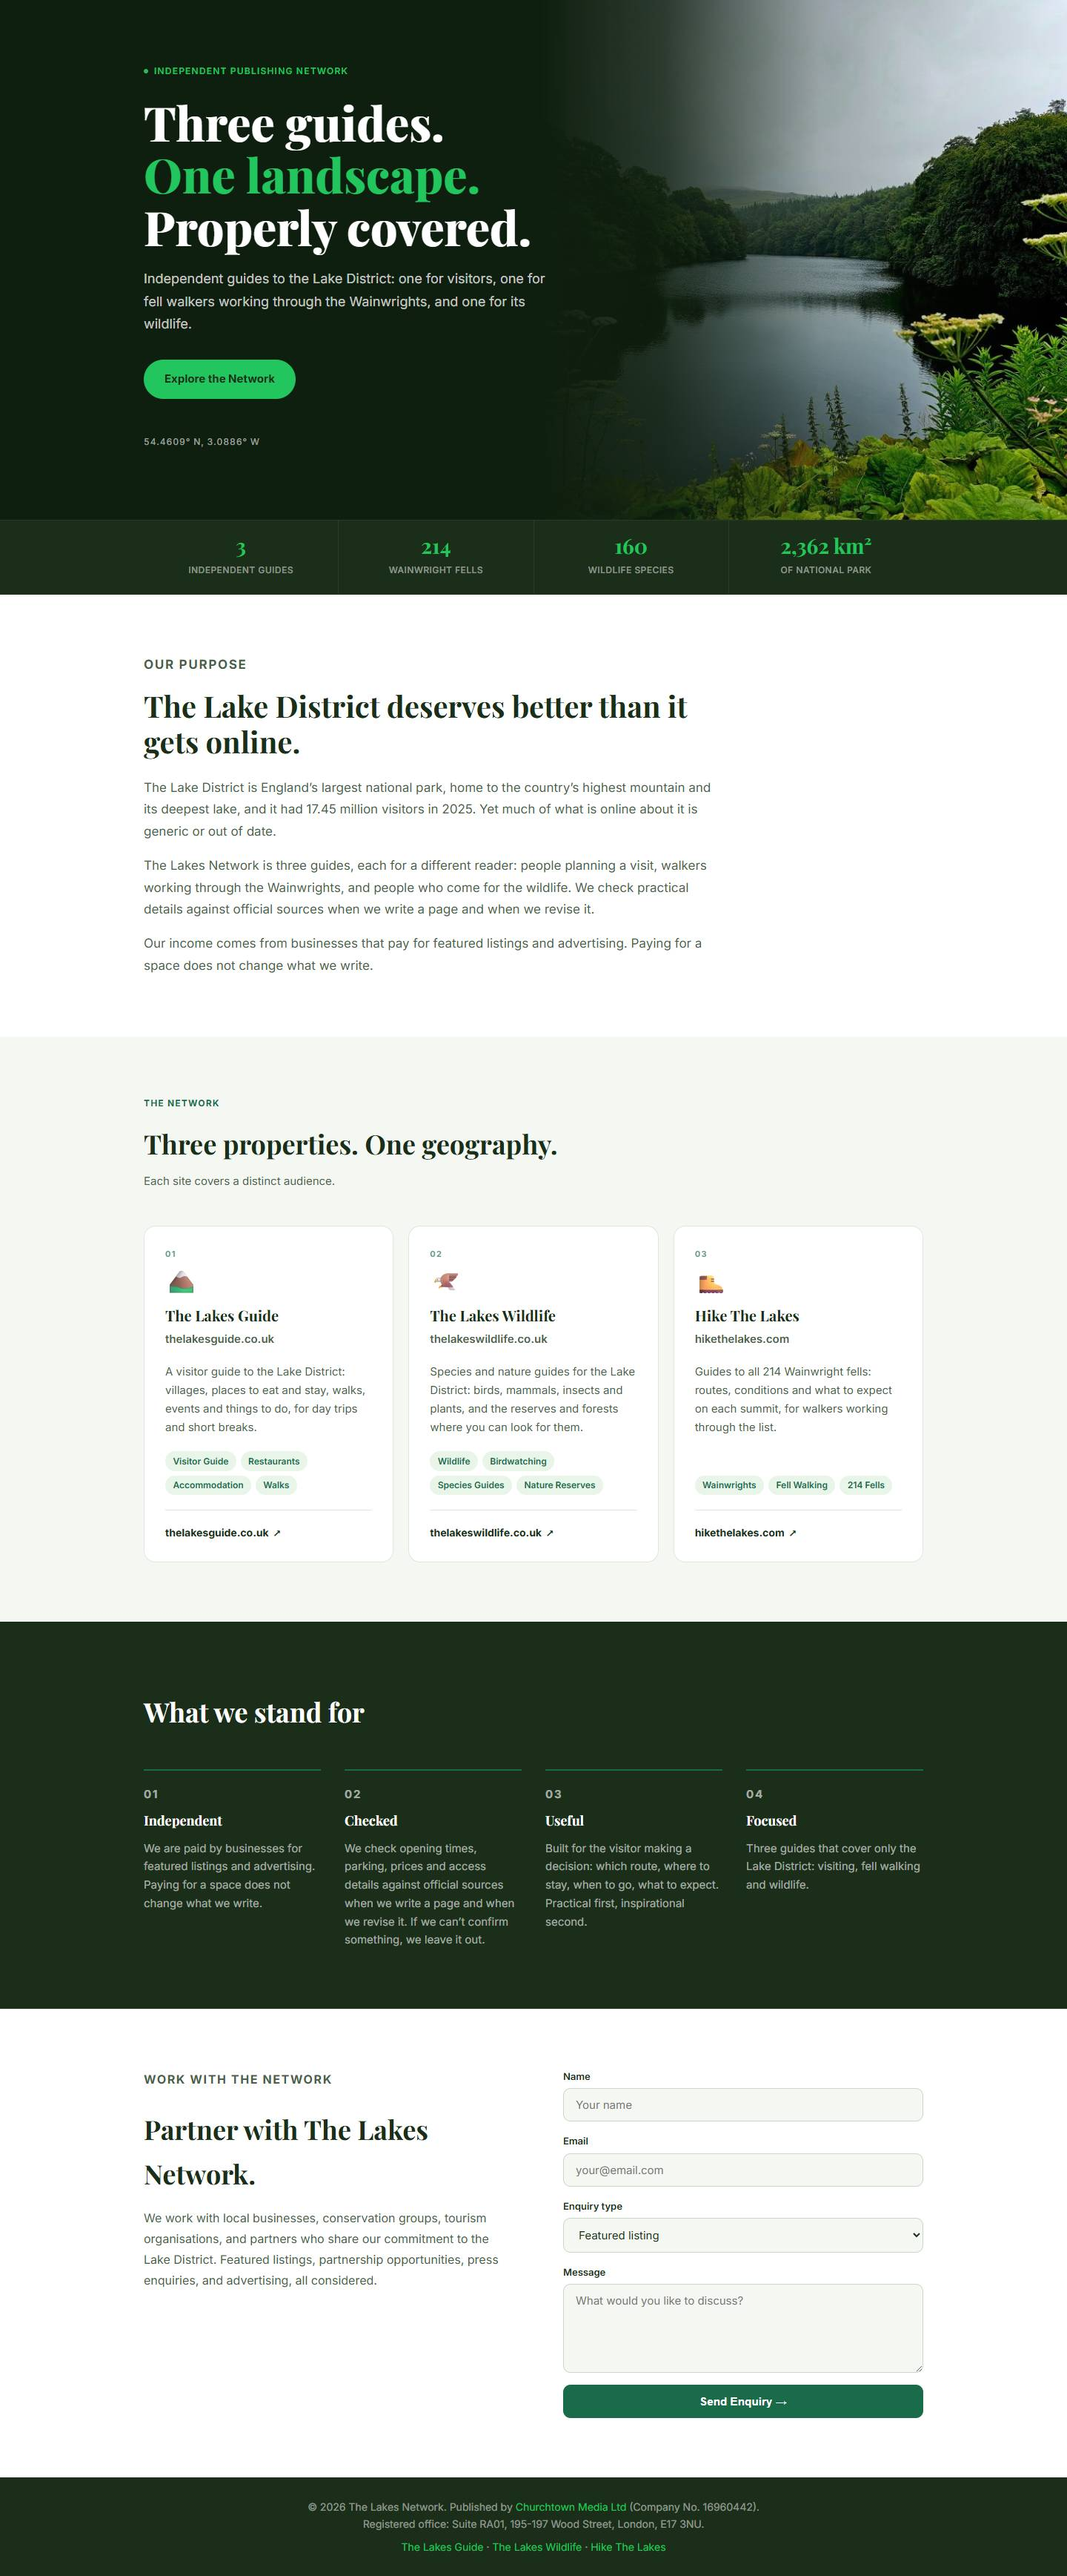
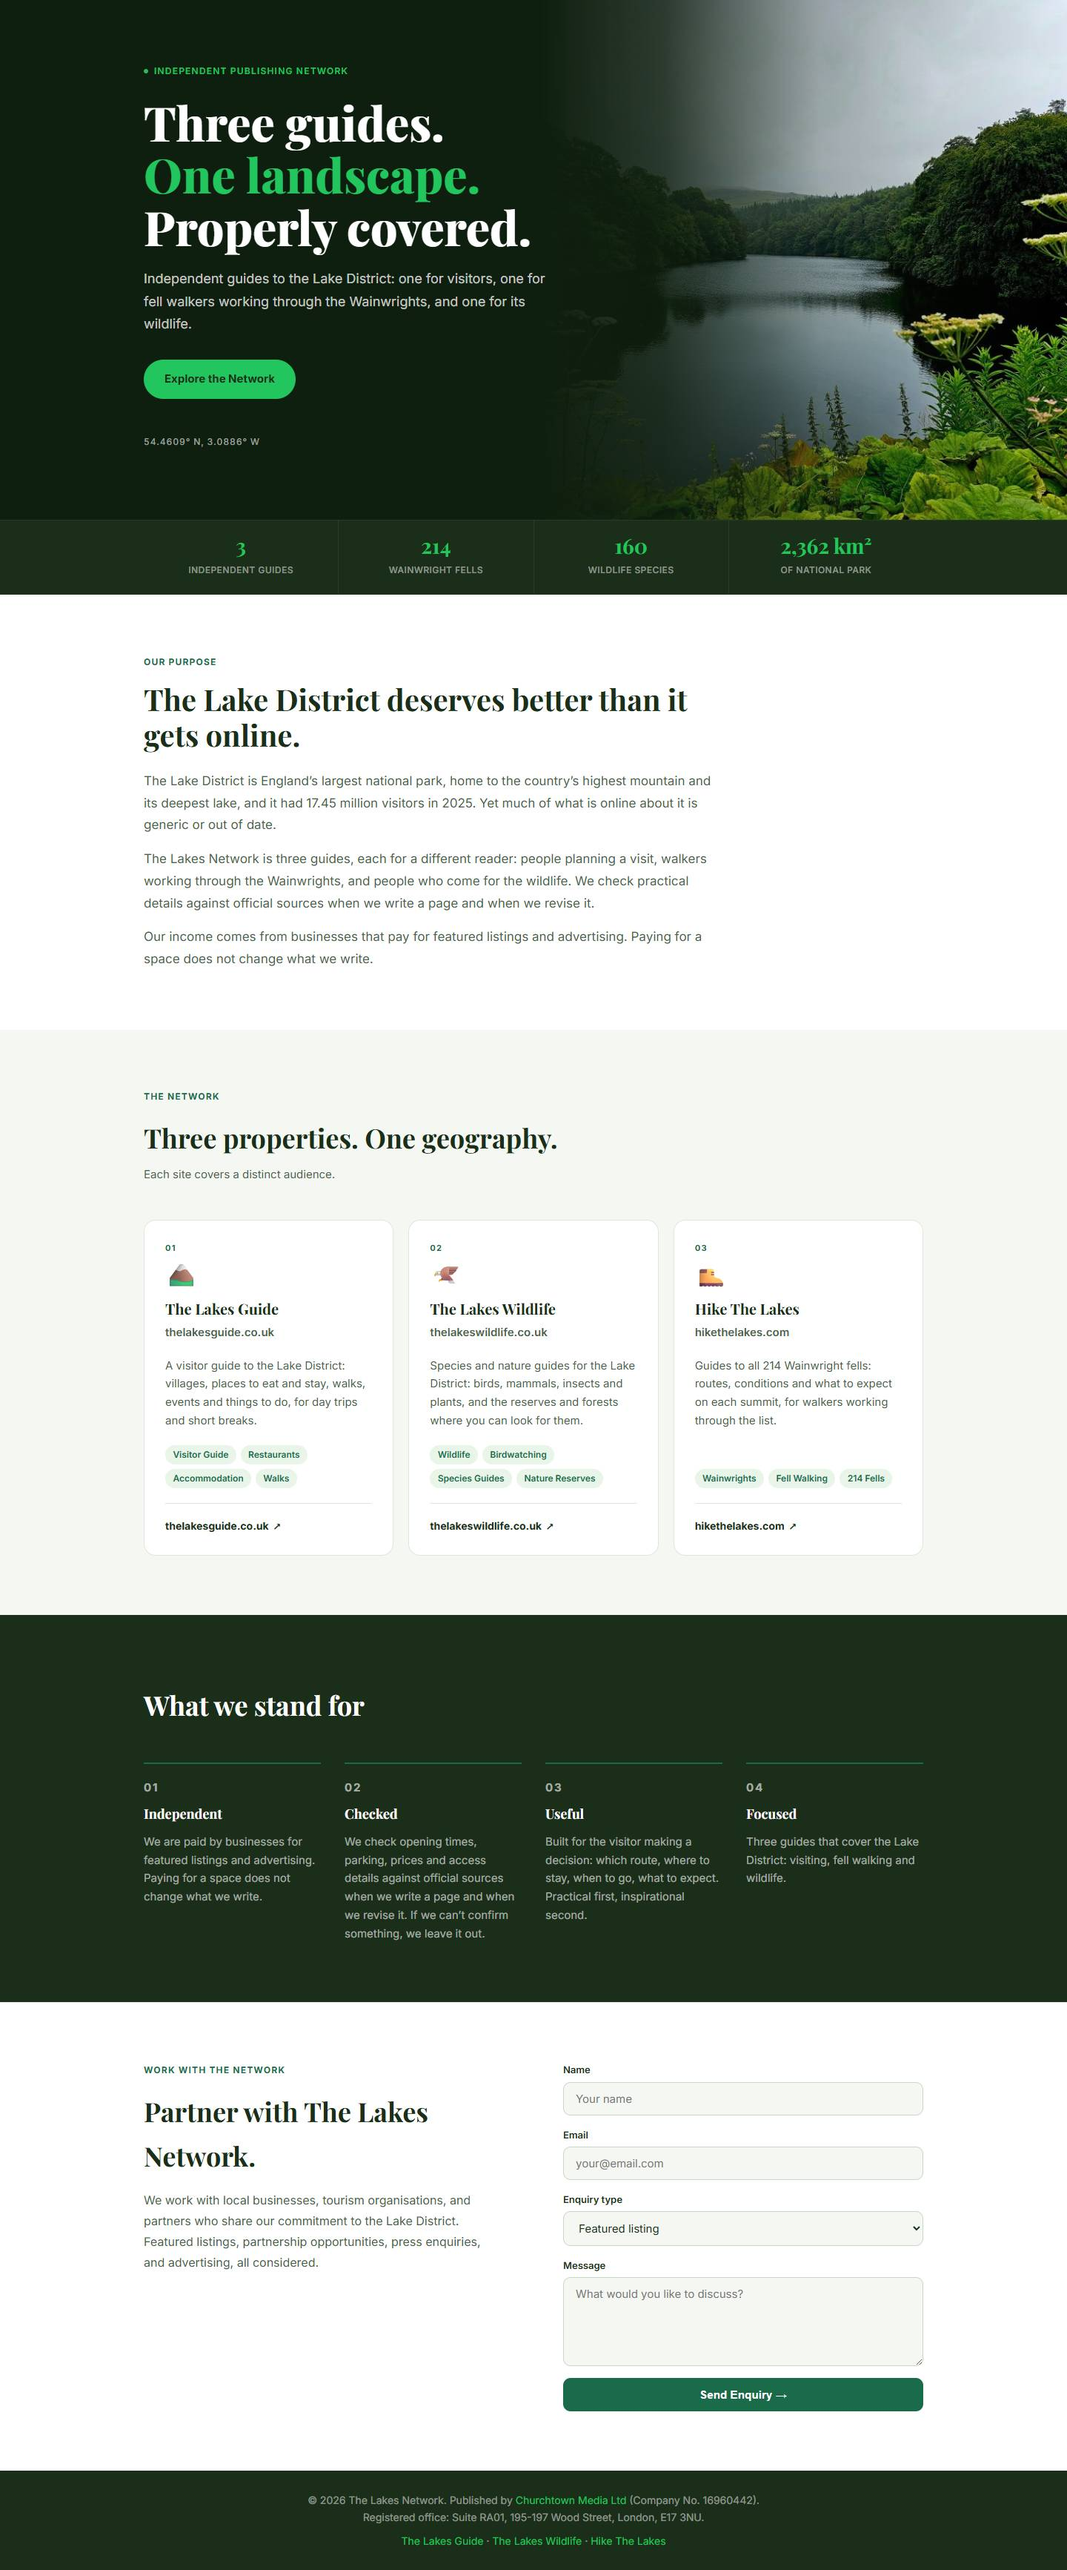
Network page review fixes: no sideways scroll on small phones, level grids, docs kept off the site
From the independent review of 1b8a6e8 and 065ae6e:
- The footer's registered office line forced 364 px on 360 and 320 px
  phones; it now wraps below 400 px. Checked 320 to 1440: no overflow.
- "2,362 km²" no longer breaks onto two lines between 700 and 820 px.
- What we stand for: four columns, two below 900 px, one below 520 px (it
  left one value alone on a row from 772 to 1023 px). Site cards: three,
  one below 700 px.
- docs/ added to .vercelignore: the screenshots there (including the
  withdrawn claims in the before shots) are not deployed.
- og:image size now says 768x1024, the real size.
- "conservation groups" removed from the work-with line; "cover only the
  Lake District" is "cover the Lake District" (the wildlife guide includes
  Leighton Moss, in Lancashire).
- Section labels "Our Purpose" and "Work With the Network" now match the
  others (12 px green; paragraph styles were overriding them).
- Form focus ring stronger; card numbers at full contrast; emoji icons
  hidden from screen readers; non-standard Host line out of robots.txt.

diff --git a/index.html b/index.html
@@ -15,8 +15,8 @@
   <meta property="og:title" content="The Lakes Network: Three Guides. One Landscape.">
   <meta property="og:description" content="Independent editorial guides to the Lake District. The Lakes Guide, The Lakes Wildlife, and Hike The Lakes. Built by Churchtown Media.">
   <meta property="og:image" content="https://www.thelakes.network/lake-district.jpg">
-  <meta property="og:image:width" content="1200">
-  <meta property="og:image:height" content="630">
+  <meta property="og:image:width" content="768">
+  <meta property="og:image:height" content="1024">
   <meta property="og:image:alt" content="Lake District tarn and woodland">
   <meta property="og:locale" content="en_GB">
 
@@ -216,7 +216,7 @@
     .purpose-inner {
       max-width: 780px;
     }
-    .section-tag {
+    .section-tag, .purpose p.section-tag, .work-text p.section-tag {
       font-size: 0.75rem;
       font-weight: 700;
       letter-spacing: 0.1em;
@@ -263,7 +263,7 @@
     }
     .cards {
       display: grid;
-      grid-template-columns: repeat(auto-fit, minmax(220px, 1fr));
+      grid-template-columns: repeat(3, 1fr);
       gap: 1.25rem;
     }
     .card {
@@ -287,7 +287,6 @@
       color: var(--tarn);
       text-transform: uppercase;
       margin-bottom: 0.75rem;
-      opacity: 0.7;
     }
     .card-emoji {
       font-size: 2rem;
@@ -363,7 +362,7 @@
     }
     .values-grid {
       display: grid;
-      grid-template-columns: repeat(auto-fit, minmax(220px, 1fr));
+      grid-template-columns: repeat(4, 1fr);
       gap: 2rem;
     }
     .value {
@@ -453,7 +452,7 @@
     }
     form input:focus, form select:focus, form textarea:focus {
       border-color: var(--tarn);
-      box-shadow: 0 0 0 3px rgba(26,107,74,0.1);
+      box-shadow: 0 0 0 3px rgba(26,107,74,0.35);
     }
     form textarea { min-height: 120px; resize: vertical; }
     form button {
@@ -482,6 +481,12 @@
     footer a:hover { text-decoration: underline; }
     .footer-copy { margin: 0 0 0.5rem; }
     .nowrap { white-space: nowrap; }
+
+    .stat-num { white-space: nowrap; }
+    @media (max-width: 900px) { .values-grid { grid-template-columns: repeat(2, 1fr); } }
+    @media (max-width: 700px) { .cards { grid-template-columns: 1fr; } }
+    @media (max-width: 520px) { .values-grid { grid-template-columns: 1fr; } }
+    @media (max-width: 400px) { .nowrap { white-space: normal; } }
 
     /* ── UTILS ──────────────────────────────────────────────────── */
     @media (max-width: 640px) {
@@ -556,7 +561,7 @@
 
         <div class="card">
           <span class="card-num">01</span>
-          <div class="card-emoji">🏔</div>
+          <div class="card-emoji" aria-hidden="true">🏔</div>
           <h3>The Lakes Guide</h3>
           <p class="card-domain">thelakesguide.co.uk</p>
           <p>A visitor guide to the Lake District: villages, places to eat and stay, walks, events and things to do, for day trips and short breaks.</p>
@@ -571,7 +576,7 @@
 
         <div class="card">
           <span class="card-num">02</span>
-          <div class="card-emoji">🦅</div>
+          <div class="card-emoji" aria-hidden="true">🦅</div>
           <h3>The Lakes Wildlife</h3>
           <p class="card-domain">thelakeswildlife.co.uk</p>
           <p>Species and nature guides for the Lake District: birds, mammals, insects and plants, and the reserves and forests where you can look for them.</p>
@@ -586,7 +591,7 @@
 
         <div class="card">
           <span class="card-num">03</span>
-          <div class="card-emoji">🥾</div>
+          <div class="card-emoji" aria-hidden="true">🥾</div>
           <h3>Hike The Lakes</h3>
           <p class="card-domain">hikethelakes.com</p>
           <p>Guides to all 214 Wainwright fells: routes, conditions and what to expect on each summit, for walkers working through the list.</p>
@@ -627,7 +632,7 @@
         <div class="value">
           <p class="value-num">04</p>
           <h3>Focused</h3>
-          <p>Three guides that cover only the Lake District: visiting, fell walking and wildlife.</p>
+          <p>Three guides that cover the Lake District: visiting, fell walking and wildlife.</p>
         </div>
       </div>
     </div>
@@ -640,7 +645,7 @@
         <div class="work-text">
           <p class="section-tag">Work With the Network</p>
           <h2>Partner with The Lakes Network.</h2>
-          <p>We work with local businesses, conservation groups, tourism organisations, and partners who share our commitment to the Lake District. Featured listings, partnership opportunities, press enquiries, and advertising, all considered.</p>
+          <p>We work with local businesses, tourism organisations, and partners who share our commitment to the Lake District. Featured listings, partnership opportunities, press enquiries, and advertising, all considered.</p>
         </div>
         <div class="work-form">
           <form action="/api/contact" method="post" id="contact-form">
